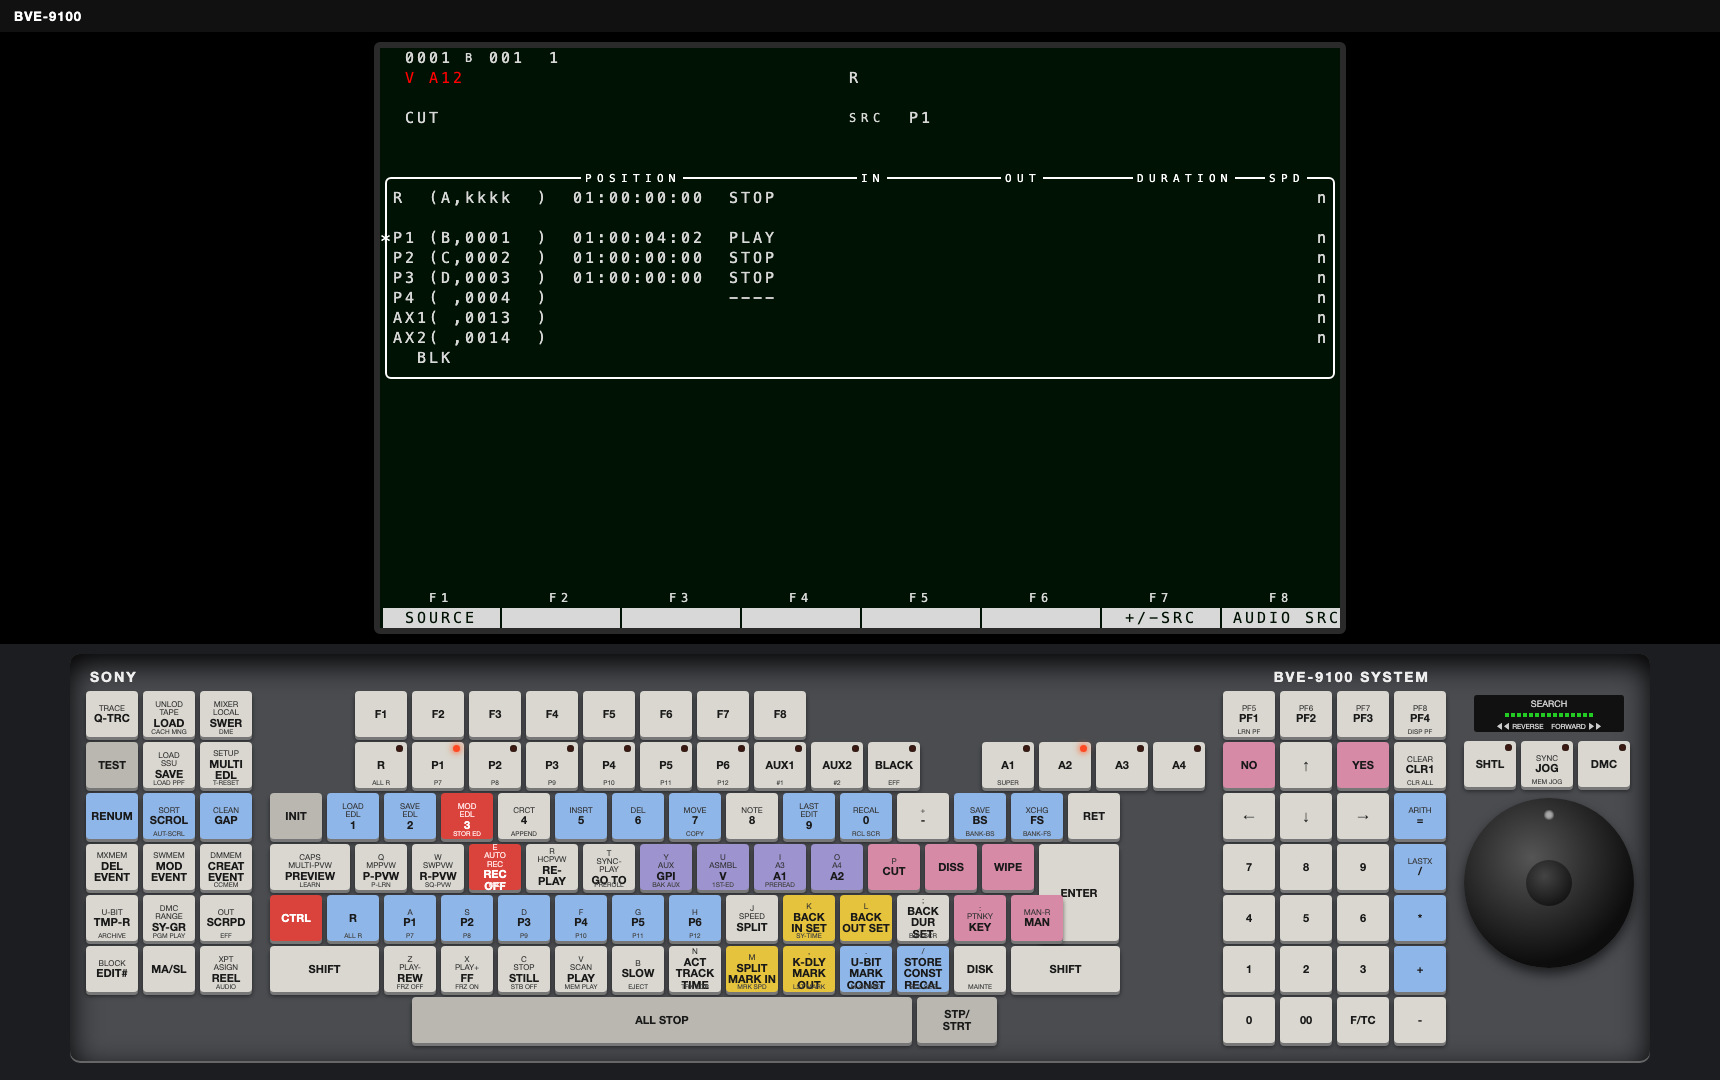
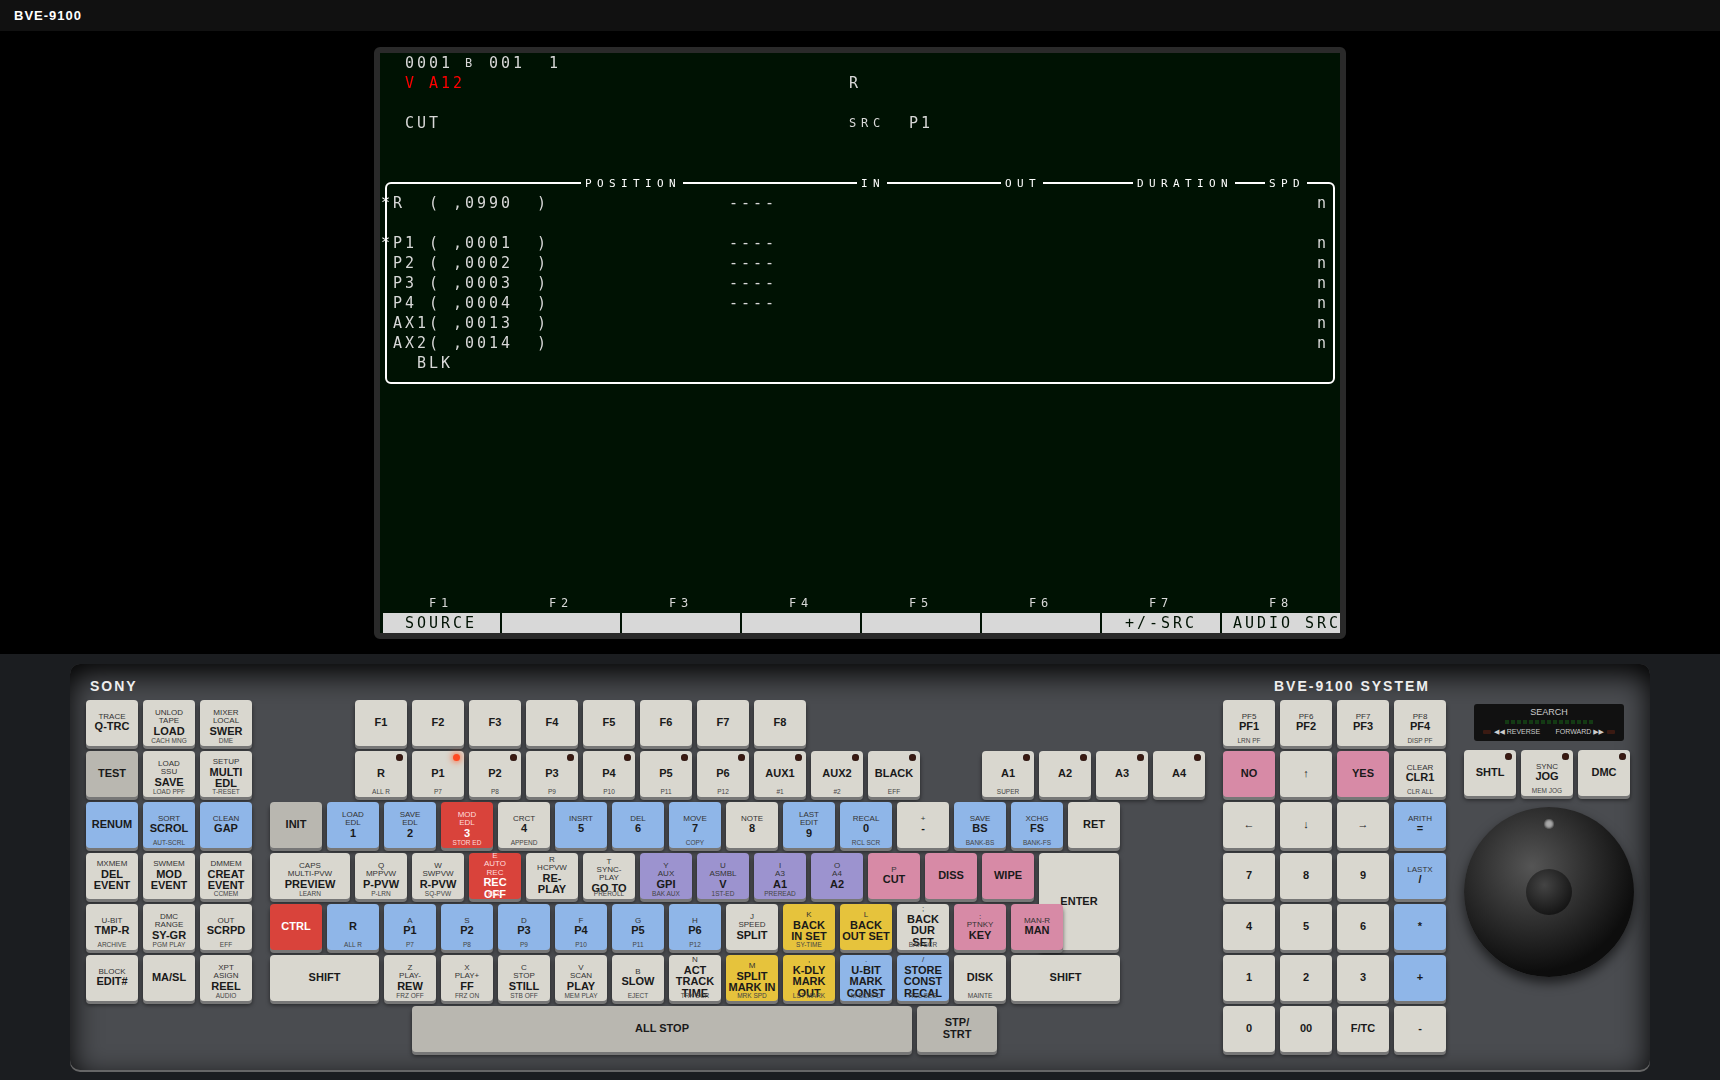
UI: search LED strip, Shift+F1-F10 source keys, new YES/NO/RET keys, new screenshot
- SEARCH LED strip follows the dial counter (now in the /screen lamps JSON): in SHTL a bar from the
  centre towards the turned side plus the REVERSE / FORWARD lamp; in JOG / DMC a walking dot and the
  direction of the last movement
- Shift+F1-F10 = R, P1-P6, AUX1, AUX2, BLACK source keys
- Delete = NO, Page Down = YES, Backspace = RET
- docs/screenshot.png retaken with the new layout

diff --git a/ui/index.html b/ui/index.html
@@ -43,7 +43,11 @@
   .dial .cap { position:absolute; left:50%; top:50%; width:46px; height:46px; margin:-23px 0 0 -23px; border-radius:50%; background: radial-gradient(circle at 40% 35%, #444, #151515 75%); }
   .dialinfo { text-align:center; color:#888; font-size:11px; margin-top:-2px; }
   .ledbar { width:150px; height:34px; background:#111; border-radius:3px; margin:4px auto; color:#ccc; font-size:9px; text-align:center; padding-top:3px; }
-  .ledbar i { display:inline-block; width:4px; height:4px; margin:1px; background:#2c2; }
+  .ledbar i { display:inline-block; width:4px; height:4px; margin:1px; background:#143a14; }
+  .ledbar i.on { background:#3f3; box-shadow:0 0 3px #3f3; }
+  .ledbar .dirs { font-size:7px; display:flex; justify-content:space-between; align-items:center; padding:0 6px; margin-top:1px; }
+  .ledbar .dir { display:inline-block; width:8px; height:4px; border-radius:1px; background:#3a1a12; vertical-align:middle; margin:0 3px; }
+  .ledbar .dir.on { background:#ff4a24; box-shadow:0 0 5px 1px #ff6a3c; }
 </style>
 </head>
 <body>
@@ -56,7 +60,7 @@
     <div class="block" id="main"></div>
     <div class="block" id="right"></div>
     <div class="block" id="far">
-      <div class="ledbar">SEARCH<br><i></i><i></i><i></i><i></i><i></i><i></i><i></i><i></i><i></i><i></i><i></i><i></i><i></i><i></i><i></i><br><span style="font-size:7px">◀◀ REVERSE &nbsp;&nbsp; FORWARD ▶▶</span></div>
+      <div class="ledbar">SEARCH<br><span id="searchleds"></span><div class="dirs"><span><b class="dir" id="ledrev"></b>◀◀ REVERSE</span><span>FORWARD ▶▶<b class="dir" id="ledfwd"></b></span></div></div>
       <div class="row" id="dialkeys"></div>
       <div class="dial" id="dial" title="search dial: drag around (or use the mouse wheel); SHTL / JOG / DMC select the mode"><div class="mark"></div><div class="cap"></div></div>
       <div class="dialinfo" id="dialinfo"></div>
@@ -163,6 +167,28 @@ function updateLamps(l){
     if('src' in m) on=l.src===m.src; else if('audio' in m) on=!!(l.audio&(1<<m.audio)); else if('dial' in m) on=l.dial===m.dial;
     e.classList.toggle('lit',on); });
   const info=document.getElementById('dialinfo'); if(info) info.textContent=['SHTL','JOG','DMC',''][l.dial]??'';
+  searchLeds(l);
+}
+// Search LED strip above the dial: follows the keyboard's dial counter. SHTL: a bar from the centre LED
+// towards the side the dial is turned, longer the further it is turned (SHTL_FULL counts = whole half),
+// with the REVERSE / FORWARD lamp for the direction. JOG / DMC: a dot that walks with the dial and the
+// direction lamp of the last movement. Dial off: dark.
+const NLED=15, MID=7, SHTL_FULL=60;
+const ledEls=[]; { const box=document.getElementById('searchleds'); for(let i=0;i<NLED;i++){ const e=document.createElement('i'); box.appendChild(e); ledEls.push(e); } }
+let lastCount=null, lastDir=0, lastMove=0;
+function searchLeds(l){
+  const c=l.count??0, now=Date.now(); let on=new Array(NLED).fill(false), dir=0;
+  if(lastCount!==null && c!==lastCount){ lastDir=Math.sign(c-lastCount); lastMove=now; }
+  lastCount=c;
+  if(l.dial===0){
+    const n=Math.min(MID, Math.ceil(Math.abs(c)*MID/SHTL_FULL)); dir=Math.sign(c);
+    on[MID]=true; for(let i=1;i<=n;i++) on[MID+dir*i]=true;
+  } else if(l.dial===1 || l.dial===2){
+    on[((MID+c)%NLED+NLED)%NLED]=true; if(now-lastMove<400) dir=lastDir;
+  }
+  ledEls.forEach((e,i)=>e.classList.toggle('on',on[i]));
+  document.getElementById('ledrev').classList.toggle('on',dir<0);
+  document.getElementById('ledfwd').classList.toggle('on',dir>0);
 }
 let shift=false, ctrl=false;
 function mk(k){
@@ -212,7 +238,9 @@ const DIAL_COUNTS=120;
 function log(s){ /* key traffic is not shown in the UI */ }
 async function send(hex){ log('key '+hex); try{ await fetch('/key',{method:'POST',body:hex}); }catch(e){ log('send failed: '+e); } }
 // physical keyboard -> wire codes
-const FK={F1:'F1',F2:'F2',F3:'F3',F4:'F4',F5:'F5',F6:'F6',F7:'F7',F8:'F8',F9:'PF1',F10:'PF2',F11:'PF3',F12:'PF4',Enter:'ENTER',Backspace:'BS',Tab:'FS',Escape:'INIT',ArrowUp:'CURSOR UP',ArrowDown:'CURSOR DOWN',ArrowLeft:'CURSOR LEFT',ArrowRight:'CURSORRIGHT',Home:'RET',PageUp:'YES',PageDown:'NO',Delete:'CLR 1'};
+const FK={F1:'F1',F2:'F2',F3:'F3',F4:'F4',F5:'F5',F6:'F6',F7:'F7',F8:'F8',F9:'PF1',F10:'PF2',F11:'PF3',F12:'PF4',Enter:'ENTER',Backspace:'RET',Tab:'FS',Escape:'INIT',ArrowUp:'CURSOR UP',ArrowDown:'CURSOR DOWN',ArrowLeft:'CURSOR LEFT',ArrowRight:'CURSORRIGHT',Home:'RET',PageUp:'YES',PageDown:'YES',Delete:'NO'};
+// Shift+F1..F10: the source select keys of the top row (R, P1-P6, AUX1, AUX2, BLACK)
+const SHIFT_FK={F1:'MONI-R',F2:'MONI-P1',F3:'MONI-P2',F4:'MONI-P3',F5:'MONI-P4',F6:'MONI-P5',F7:'MONI-P6',F8:'MONI-AUX1',F9:'MONI-AUX2',F10:'MONI-BLACK'};
 const PHYS_SHIFT={'1':'LOAD EDL','2':'SAVE EDL','3':'MOD EDL','4':'CRCT','5':'INSRT','6':'DEL','7':'MOVE','8':'NOTE','9':'LAST EDIT','0':'RECALL'};
 const PHYS_CTRL={'3':'STOR ED','4':'APPEND','7':'COPY','0':'RECAL SCROL','e':'REC','t':'PREROLL','y':'BAK AUX','u':'1ST - ED','i':'PREREAD','q':'P-LEARN','w':'S QUICK PVW','a':'P7','s':'P8','d':'P9','f':'P10','g':'P11','h':'P12','k':'SY-TIME','z':'FREEZE-OFF','x':'FREEZE-ON','c':'STANDBY OFF','v':'MEM PLAY','b':'EJECT','n':'TRACK SCROL','m':'MRK SPD',',':'LAST MARK','.':'MULTI-SCRPD','/':'RECAL SEGMT','p':'CTL+CUT',' ':'CTL+ALLSTOP',Enter:'CTL+ENTER',ArrowUp:'CTL+UP',ArrowDown:'CTL+DOWN',ArrowLeft:'CTL+LEFT',ArrowRight:'CTL+RIGHT'};
 document.addEventListener('keydown',e=>{
@@ -222,6 +250,7 @@ document.addEventListener('keydown',e=>{
   else if(e.ctrlKey && PHYS_CTRL[e.key.toLowerCase()]) code=WIRE[PHYS_CTRL[e.key.toLowerCase()]];
   else if(e.ctrlKey && /^F[1-8]$/.test(e.key)) code=WIRE['CTL+'+e.key];
   else if(e.shiftKey && PHYS_SHIFT[e.key]) code=WIRE[PHYS_SHIFT[e.key]];
+  else if(e.shiftKey && SHIFT_FK[e.key]) code=WIRE[SHIFT_FK[e.key]];
   else if(FK[e.key]) code=WIRE[FK[e.key]];
   else if(e.key.length===1 && e.key.charCodeAt(0)>=0x20 && e.key.charCodeAt(0)<0x7f) code=e.key.charCodeAt(0).toString(16);
   if(code){ e.preventDefault(); send(code); }

diff --git a/src/devices/dsc63.cpp b/src/devices/dsc63.cpp
@@ -170,7 +170,7 @@ std::string Dsc63::screen_json() const {
         out += "]";
     }
     out += "],\"ov\":[" + ov + "]";
-    { char b[96]; snprintf(b, sizeof b, ",\"lamps\":{\"src\":%d,\"audio\":%d,\"dial\":%d}", lamp_src_, lamp_audio_, dial_mode_); out += b; }
+    { char b[128]; snprintf(b, sizeof b, ",\"lamps\":{\"src\":%d,\"audio\":%d,\"dial\":%d,\"count\":%d}", lamp_src_, lamp_audio_, dial_mode_, dial_); out += b; }
     char tail[128]; snprintf(tail, sizeof tail, ",\"cursor\":%u,\"ctl\":%u", (unsigned)(((regs_[0x1A0] << 8) | regs_[0x1A1])), (unsigned)((regs_[0x1C0] << 8) | regs_[0x1C1]));
     out += tail;
     auto c8 = [](uint8_t v) { return (unsigned)((v & 0x3F) * 255 / 63); };

diff --git a/README.md b/README.md
@@ -44,12 +44,14 @@ virtual tape starts at 01:00:00:00.
   on a key is its SHIFT function, the bottom legend its CTRL function. Hover a key to see what it sends.
 * Your computer keyboard works too: letters, digits and Space act like the same position on the Sony keyboard
   (for example A = P1, V = PLAY, Z = REW, X = FF, C = STILL, Space = ALL STOP). F1-F8 are F1-F8, F9-F12 are
-  PF1-PF4, Esc is INIT, Enter is ENTER, Home is RET, Page Up / Page Down are YES / NO, Backspace and Tab are
-  BS and FS. Shift+digit and Ctrl+key give the top and bottom legends (Ctrl+3 = STOR ED).
+  PF1-PF4, Esc is INIT, Enter is ENTER, Backspace and Home are RET, Page Up and Page Down are YES, Delete is
+  NO, Tab is FS. Shift+F1-F10 are the source keys R, P1-P6, AUX1, AUX2 and BLACK. Shift+digit and Ctrl+key
+  give the top and bottom legends (Ctrl+3 = STOR ED).
 * The lamps on the keyboard follow the editor: the selected source (R, P1-P6, AUX, BLACK), the audio
   channels A1-A4 and the dial mode.
 * The search dial: press **JOG**, **SHTL** or **DMC**, then drag the dial around (or scroll over it). In
-  shuttle, the further you turn from where you started, the faster the deck winds; turn back to stop.
+  shuttle, the further you turn from where you started, the faster the deck winds; turn back to stop. The
+  SEARCH LED strip above the dial shows how far it is turned, and the REVERSE / FORWARD lamps the direction.
 
 ## Editing
 
